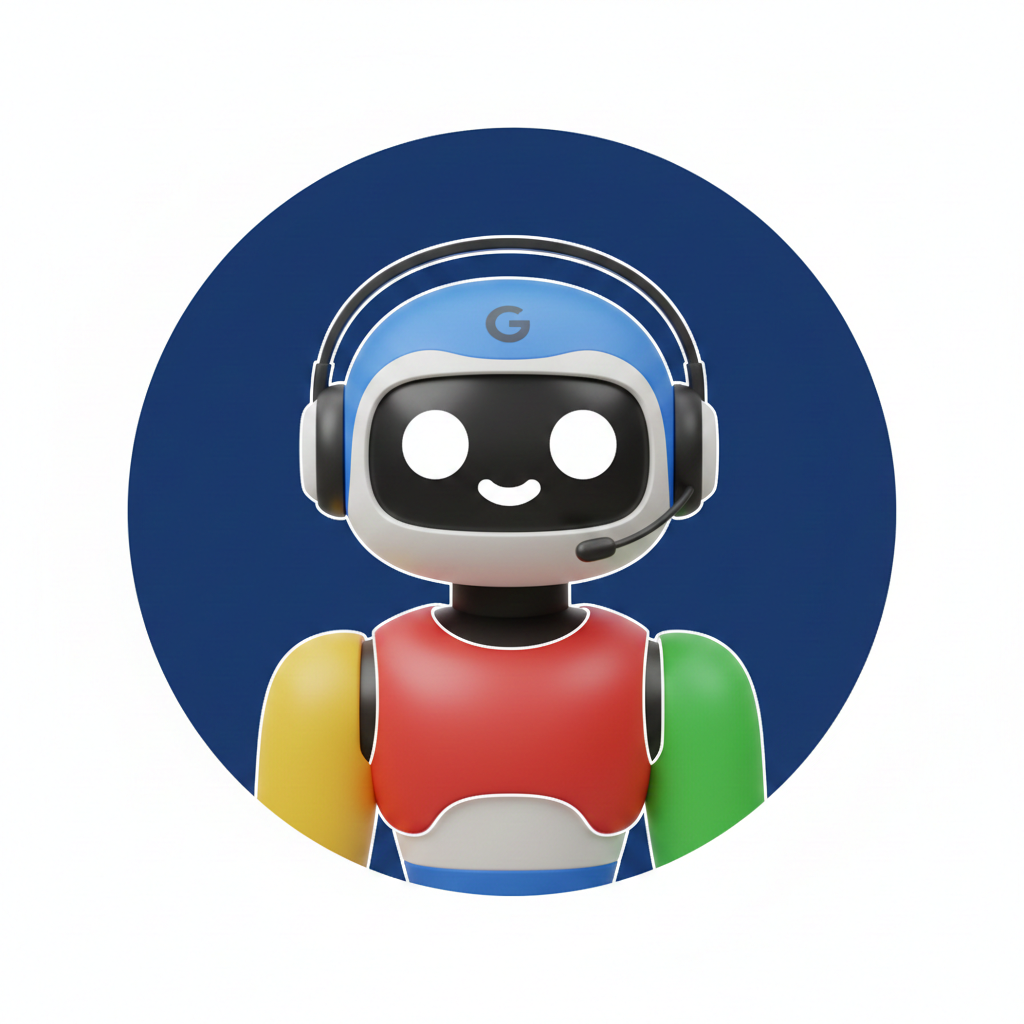
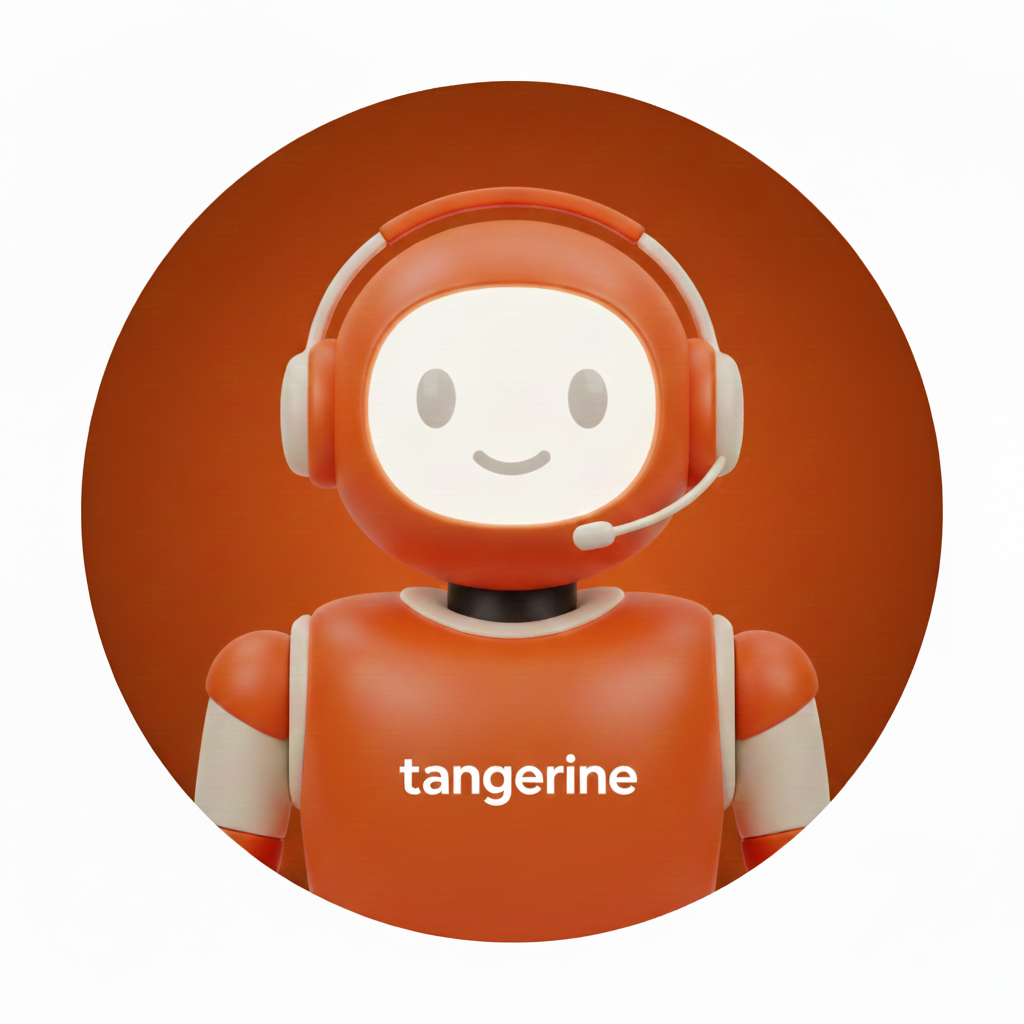
Working somewhat

diff --git a/static/style.css b/static/style.css
@@ -1,64 +1,149 @@
 :root {
-    --google-blue: #1a73e8;
-    --google-grey: #f1f3f4;
+    --tg-orange: #ff7a00;
+    --tg-orange-dark: #e66b00;
+    --tg-orange-light: #fff1e6;
+    --tg-grey: #f7f2ee;
     --text-dark: #3c4043;
     --white: #ffffff;
 }
 
 body {
     font-family: 'Open Sans', sans-serif;
-    background-color: #f8f9fa;
+    background-color: #fffaf5;
     margin: 0;
+    height: 100vh;
+    display: flex;
+    flex-direction: column;
+}
+
+/* 1. Top Navigation Styling */
+.top-nav {
+    background: var(--white);
+    padding: 10px 40px;
+    border-bottom: 1px solid #ffd1b3;
+    display: flex;
+    align-items: center;
+    justify-content: space-between;
+    height: 60px;
+}
+
+.main-logo { height: 35px; width: auto; }
+.header-tagline { color: var(--tg-orange); font-weight: 600; }
+
+/* 2. Main 2-Column Layout */
+.main-content {
+    display: flex;
+    flex: 1;
+    padding: 20px 40px;
+    gap: 30px;
+    overflow: hidden; /* Keeps the whole page from scrolling, only the chatbox will */
+}
+
+/* Chat Column (Left) */
+.chat-column {
+    flex: 2; /* Takes up more space */
     display: flex;
     justify-content: center;
-    align-items: center;
-    height: 100vh;
 }
 
 .chat-container {
     width: 100%;
-    max-width: 500px;
-    height: 600px;
+    max-width: 800px; /* Wider for the new layout */
     background: var(--white);
     border-radius: 12px;
     box-shadow: 0 4px 20px rgba(0,0,0,0.1);
     display: flex;
     flex-direction: column;
+    height: 100%;
 }
 
 .header {
     background: var(--white);
     padding: 16px;
-    border-bottom: 1px solid #dadce0;
-    display: flex;
-    align-items: center;
-    gap: 12px;
+    border-bottom: 1px solid #ffd1b3;
+    
+    /* These lines fix the side-by-side alignment */
+    display: flex; 
+    flex-direction: row; /* Forces horizontal alignment */
+    align-items: center;  /* Centers them vertically against each other */
+    gap: 12px;           /* Adds space between the image and the text */
 }
 
-.header h2 { margin: 0; font-size: 18px; color: var(--text-dark); }
-.header img { width: 32px; height: 32px; }
+.header img.avatar {
+    width: 40px;
+    height: 40px;
+    border-radius: 50%;
+    object-fit: cover; /* Keeps image from stretching */
+}
 
-/* Chatbox */
-#chatbox {
-    flex: 1;
-    padding: 20px;
-    overflow-y: auto;
+.header h2 {
+    margin: 0; 
+    font-size: 18px;
+    color: var(--text-dark);
+}
+
+/* Sidebar Column (Right) */
+.sidebar {
+    flex: 1; /* Takes up less space */
+    background: var(--white);
+    border-radius: 12px;
+    padding: 24px;
+    box-shadow: 0 4px 20px rgba(0,0,0,0.05);
     display: flex;
     flex-direction: column;
-    gap: 16px;
+    gap: 20px;
+    height: fit-content;
 }
 
+.sidebar-widget label {
+    display: block;
+    font-size: 12px;
+    text-transform: uppercase;
+    color: #888;
+    margin-bottom: 8px;
+}
+
+#timerDisplay {
+    font-size: 32px;
+    font-weight: 700;
+    color: var(--tg-orange);
+}
+
+.new-chat-btn {
+    background: var(--tg-orange);
+    color: white;
+    border: none;
+    padding: 12px;
+    border-radius: 8px;
+    cursor: pointer;
+    font-weight: 600;
+}
+
+.contact-box {
+    margin-top: auto;
+    padding-top: 20px;
+    border-top: 1px solid var(--tg-grey);
+    font-size: 13px;
+    color: var(--text-dark);
+}
+
+/* KEEP YOUR EXISTING CHATBOX, BUBBLE, AND INPUT STYLES BELOW */
+#chatbox { flex: 1; padding: 20px; overflow-y: auto; display: flex; flex-direction: column; gap: 16px; }
 .message-row { display: flex; align-items: flex-end; gap: 8px; max-width: 85%; }
 .user-row { align-self: flex-end; flex-direction: row-reverse; }
 .bot-row { align-self: flex-start; }
-
 .avatar { width: 32px; height: 32px; border-radius: 50%; }
-
 .bubble { padding: 10px 16px; border-radius: 18px; font-size: 14px; line-height: 1.5; }
-.bot-bubble { background-color: var(--google-grey); color: var(--text-dark); border-bottom-left-radius: 4px; }
-.user-bubble { background-color: var(--google-blue); color: var(--white); border-bottom-right-radius: 4px; }
-
-/* Input */
+.bot-bubble { background-color: var(--tg-orange-light); color: var(--text-dark); border-bottom-left-radius: 4px; }
+.user-bubble { background-color: var(--tg-orange); color: var(--white); border-bottom-right-radius: 4px; }
 .input-area { padding: 16px; border-top: 1px solid #dadce0; display: flex; gap: 10px; }
-input { flex: 1; padding: 12px 20px; border: 1px solid #dadce0; border-radius: 24px; outline: none; }
-button { background: var(--google-blue); color: white; border: none; padding: 0 20px; border-radius: 24px; cursor: pointer; }
+input { flex: 1; padding: 12px 20px; border: 1px solid #ffd1b3; border-radius: 24px; outline: none; }
+button {
+    background: var(--tg-orange);
+    color: white;
+    border: none;
+    padding: 0 20px;
+    border-radius: 24px;
+    cursor: pointer;
+}
+button:hover { background: var(--tg-orange-dark); }

diff --git a/static/script.js b/static/script.js
@@ -1,7 +1,47 @@
-document.addEventListener("DOMContentLoaded", () => {
-    const sessionID = "tk-" + Math.random().toString(36).substring(2, 12);
+// 1. Showdown Converter setup (Global scope)
+const converter = new showdown.Converter({
+    simplifiedAutoLink: true,
+    strikethrough: true,
+    tables: true,
+    tasklists: true,
+    smoothLivePreview: true,
+    smartIndentationFix: true,
+    simpleLineBreaks: true 
+});
 
+document.addEventListener("DOMContentLoaded", () => {
+    // 2. Session & Timer State
+    let sessionID = "tk-" + Math.random().toString(36).substring(2, 12);
+    let startTime = Date.now();
+    let timerInterval;
+
+    // 3. Timer Logic
+    function startTimer() {
+        if (timerInterval) clearInterval(timerInterval); // Reset if already running
+        
+        timerInterval = setInterval(() => {
+            const now = Date.now();
+            const elapsed = now - startTime;
+
+            const minutes = Math.floor((elapsed / 1000 / 60) % 60);
+            const seconds = Math.floor((elapsed / 1000) % 60);
+
+            const displayMin = String(minutes).padStart(2, '0');
+            const displaySec = String(seconds).padStart(2, '0');
+
+            const timerElement = document.getElementById('timerDisplay');
+            if (timerElement) {
+                timerElement.innerText = `${displayMin}:${displaySec}`;
+            }
+        }, 1000);
+    }
+
+    // Start the clock immediately
+    startTimer();
+
+    // 4. Send Message Function
     window.sendMessage = async function() {
+        
         const input = document.getElementById('userInput');
         const userMsg = input.value.trim();
         if (!userMsg) return;
@@ -22,7 +62,6 @@ document.addEventListener("DOMContentLoaded", () => {
             });
             const data = await response.json();
 
-            // 3. Replace Typing with Bot Bubble
             hideTyping(typingId);
             addMessageToUI('bot', data.reply);
         } catch (error) {
@@ -31,15 +70,34 @@ document.addEventListener("DOMContentLoaded", () => {
         }
     };
 
+    // 5. New Conversation (Reset)
+    window.resetConversation = function() {
+        if (confirm("Reset conversation and timer?")) {
+            // Clear chatbox
+            const chatbox = document.getElementById('chatbox');
+            chatbox.innerHTML = `
+                <div class="message-row bot-row">
+                    <img class="avatar" src="static/bot_avater.png">
+                    <div class="bubble bot-bubble">Hello! I am Tan-kung. Before we proceed, could you please tell me your <strong>company name</strong>?</div>
+                </div>`;
+            
+            // Reset Session and Clock
+            sessionID = "tk-" + Math.random().toString(36).substring(2, 12);
+            startTime = Date.now();
+            startTimer();
+        }
+    };
+
     function addMessageToUI(role, text) {
         const chatbox = document.getElementById('chatbox');
         const isBot = role === 'bot';
         const avatar = isBot ? "static/bot_avater.png" : "https://www.gstatic.com/images/branding/product/1x/avatar_circle_blue_512dp.png";
-
+        const messageContent = isBot ? converter.makeHtml(text) : text;
+        
         const html = `
             <div class="message-row ${isBot ? 'bot-row' : 'user-row'}">
                 <img class="avatar" src="${avatar}">
-                <div class="bubble ${isBot ? 'bot-bubble' : 'user-bubble'}">${text}</div>
+                <div class="bubble ${isBot ? 'bot-bubble' : 'user-bubble'}">${messageContent}</div>
             </div>`;
         chatbox.insertAdjacentHTML('beforeend', html);
         chatbox.scrollTop = chatbox.scrollHeight;

diff --git a/static/index.html b/static/index.html
@@ -3,31 +3,61 @@
 <head>
     <meta charset="UTF-8">
     <meta name="viewport" content="width=device-width, initial-scale=1.0">
-    <title>Tan-kung | Google Workspace Support</title>
+    <title>Tan-kung | Tangerine Workspace Support</title>
     <link href="https://fonts.googleapis.com/css2?family=Open+Sans:wght@400;500;600&display=swap" rel="stylesheet">
     <link rel="stylesheet" href="/static/style.css">
+    <script src="https://cdnjs.cloudflare.com/ajax/libs/showdown/2.1.0/showdown.min.js"></script>
 </head>
 <body>
 
-<div class="chat-container">
-    <div class="header">
-        <img src="static/bot_avater.png" alt="Tan-kung">
-        <h2>Tan-kung Support</h2>
+    <header class="top-nav">
+        <img class="main-logo" src="/static/tangerine-logo.png" alt="Tangerine Logo">
+        <div class="header-tagline">Tangerine Support</div>
+    </header>
+
+    <div class="main-content">
+        <main class="chat-column">
+           <div class="chat-container">
+                <div class="header">
+                    <img class="avatar" src="static/bot_avater.png" alt="Tan-kung">
+                    <h2>Tan-kung Support</h2>
+                </div>
+
+                <div id="chatbox">
+                     <div class="message-row bot-row">
+                        <img class="avatar" src="static/bot_avater.png">
+                        <div class="bubble bot-bubble">
+                            Hello! I am Tan-kung. Before we proceed, could you please tell me your <strong>company name</strong>?
+                        </div>
+                    </div>
+                </div>
+
+                <div class="input-area">
+                    <input type="text" id="userInput" placeholder="Ask about Gmail, Drive..." onkeypress="if(event.key==='Enter') sendMessage()">
+                    <button onclick="sendMessage()">Send</button>
+                </div>
+            </div>
+        </main>
+
+        <aside class="sidebar">
+            <div class="sidebar-widget">
+                <label>User Name</label>
+                <input type="text" id="userNameInput" placeholder="Enter your name">
+            </div>
+
+            <div class="sidebar-widget">
+                <label>Conversation Timer</label>
+                <div id="timerDisplay">00:00</div>
+            </div>
+
+            <button class="new-chat-btn" onclick="resetConversation()">New Conversation</button>
+            <div class="contact-box">
+                <small>Need help? Email:</small><br>
+                <strong>info@tangerine.co.th</strong>
+            </div>
+        </aside>
     </div>
 
-    <div id="chatbox">
-        <div class="message-row bot-row">
-            <img class="avatar" src="static/bot_avater.png">
-            <div class="bubble bot-bubble">Hello! I am Tan-kung. How can I help you with Google Workspace today?</div>
-        </div>
-    </div>
-
-    <div class="input-area">
-        <input type="text" id="userInput" placeholder="Ask about Gmail, Drive..." onkeypress="if(event.key==='Enter') sendMessage()">
-        <button onclick="sendMessage()">Send</button>
-    </div>
-</div>
-
-<script src="/static/script.js"></script>
+    <script src="/static/script.js"></script>
 </body>
 </html>
